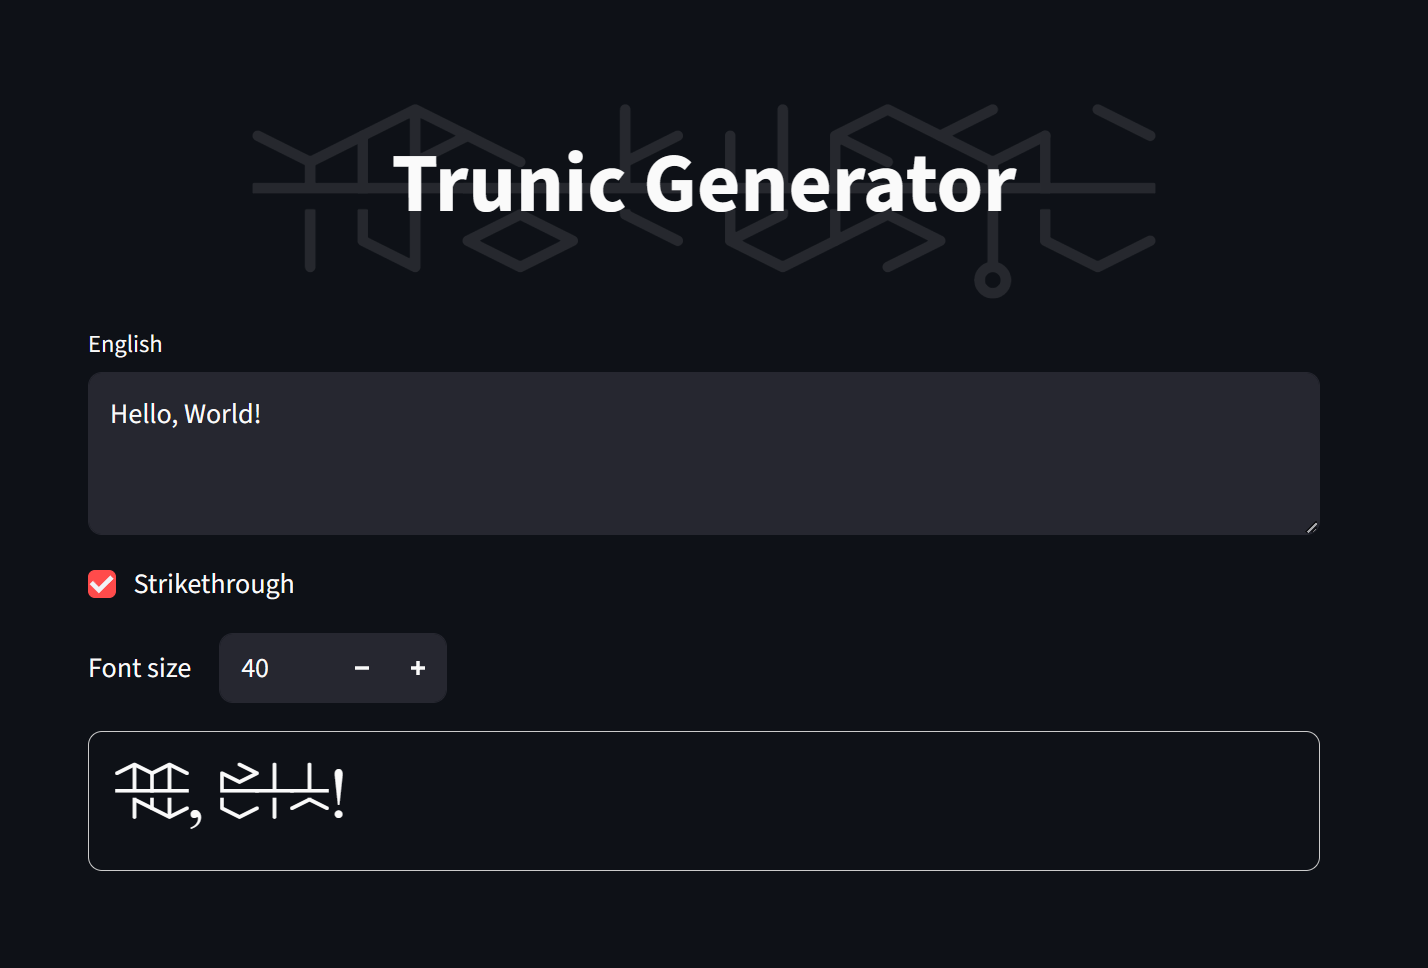
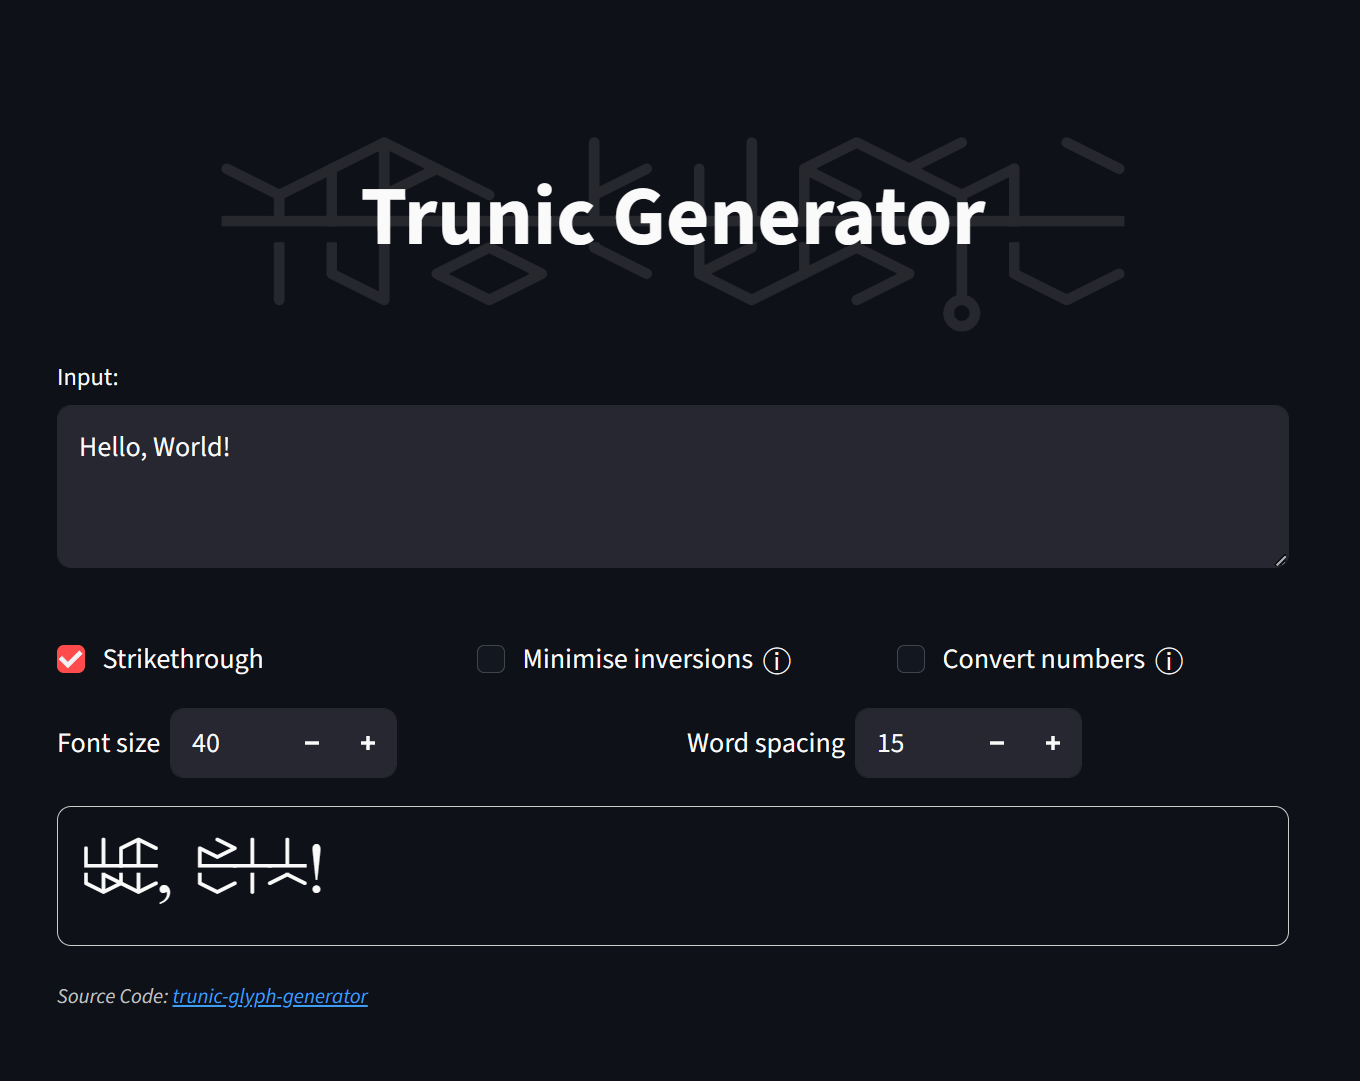
Clean up + README updates

diff --git a/src/app.py b/src/app.py
@@ -12,7 +12,7 @@ def get_url(font_name: Path) -> str:
         b64 = base64.b64encode(f.read()).decode()
     return f'data:font/truetype;base64,{b64}'
 
-# @st.cache_data
[email redacted]_data
 def english_to_trunic_cache(*args, **kwargs):
     """Wrapper for english_to_trunic function with data cache for Streamlit"""
     return english_to_trunic(*args, **kwargs)
@@ -73,41 +73,8 @@ st.markdown(f"""
 # English input text
 english = st.text_area("Input:", value="Hello, World!")
 
-# Trunic formatting options
-# col1, col2, col3 = st.columns([0.3,0.4,0.4])
-# with col1:
-#     strikethrough_enabled = st.checkbox("Strikethrough", True)
 
-# with col2:
-#     col_a, col_b = st.columns([0.6,0.1])
-#     with col_a:
-#         minimise_inversions = st.checkbox("Minimise inversions", False)
-#     with col_b:
-#         st.markdown(
-#             """
-#             <div style="position:absolute;top:9px">
-#                 <span title="Prevents adjacent inverted glyph characters that may make certain words harder to read\ne.g. &quot;anemone&quot;, &quot;aluminum&quot;, &quot;biohazard&quot;">
-#                 ⓘ
-#                 </span>
-#             </div>
-#             """,
-#             unsafe_allow_html=True
-#         )
-# with col3:
-#     col_a, col_b = st.columns([0.6,0.1], gap="xxsmall")
-#     with col_a:
-#         convert_numbers = st.checkbox("Convert numbers", False)
-#     with col_b:
-#         st.markdown(
-#             """
-#             <div style="position:absolute;top:9px;">
-#                 <span title="Converts numbers into custom glyphs (credit to github.com/dirdam)">
-#                 ⓘ
-#                 </span>
-#             </div>
-#             """,
-#             unsafe_allow_html=True
-#         )
+# Output formatting options
 st.markdown("""
 <style>
 

diff --git a/README.md b/README.md
@@ -13,9 +13,13 @@ The following diagram explains the system in detail.
 ![Diagram explaining the Trunic writing system](docs/trunic_guide.png)
 _credit: https://tunic.wiki/books/secrets/page/trunic_
 
-This repository exists mainly for transparency, issue reporting, and source availability. Most users should use the live web app.
+Optionally, you can also convert digits into a custom set of glyphs. Otherwise, digits will show up as standard arabic numerals.
+![Set of arabic numerals as Trunic glyphs](docs/trunic_digits.png)
+_credit: https://github.com/dirdam_
 
-You may also run the jupyter notebook locally if you wish to modify or extend any of the code.
+There is also an option for preventing chains of inverted glyphs in words such as "anemone" or "biohazard" - this may make them easier to read. It works by rendering all vowel-consonant-vowel sequences as `(vowel)-(consontant-vowel)` instead of `(vowel-consonant)-(vowel)`, where the parentheses denote a syllable represented by a single glyph.
+
+Lastly, feel free to run the jupyter notebook locally if you wish to modify or extend any of the code.
 
 ## Bug Reports / Feedback
 
@@ -52,6 +56,8 @@ Uses Streamlit, phonemizer, fontParts, ufo2ft, and eSpeak NG.
 
 Inspired by the writing system in TUNIC by Isometricorp Games.
 Unofficial fan project.
+
+Credit to dirdam on Github for designing the numbered glyphs.
 
 ## License
 